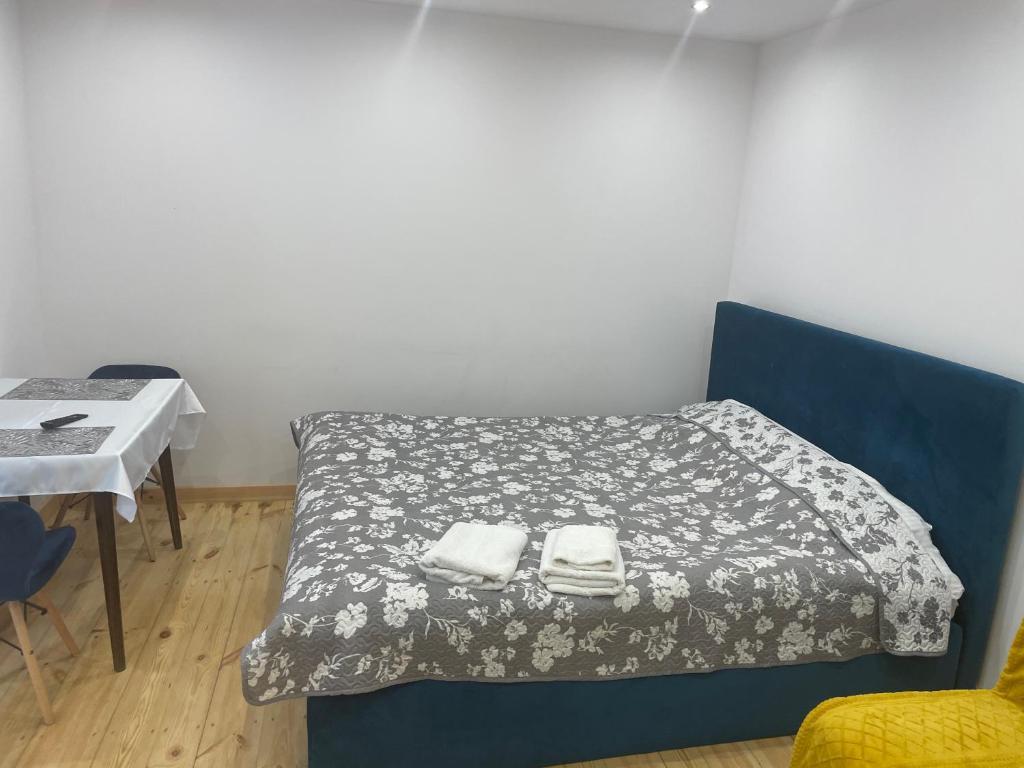
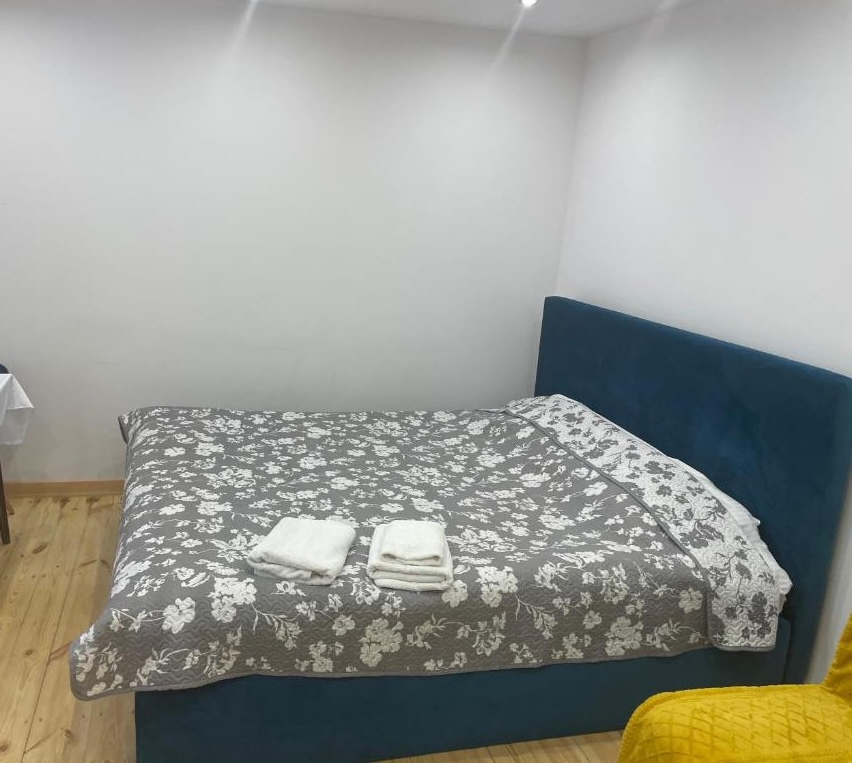
styles changed

diff --git a/index.html b/index.html
@@ -157,7 +157,7 @@
                         </div>
                     </div>
                     <div class="offers__option">
-                        <img src="img/Studio-z-lozkiem-typu-king-size.jpeg" alt="apartamenty"
+                        <img src="img/studio3.jpg" alt="apartamenty"
                             class="offers__option-img offers__option-img--right">
                         <div class="offers__option-info">
                             <h3 class="offers__option-heading">Studio z łóżkiem typu king-size i rozkładaną sofą</h3>
